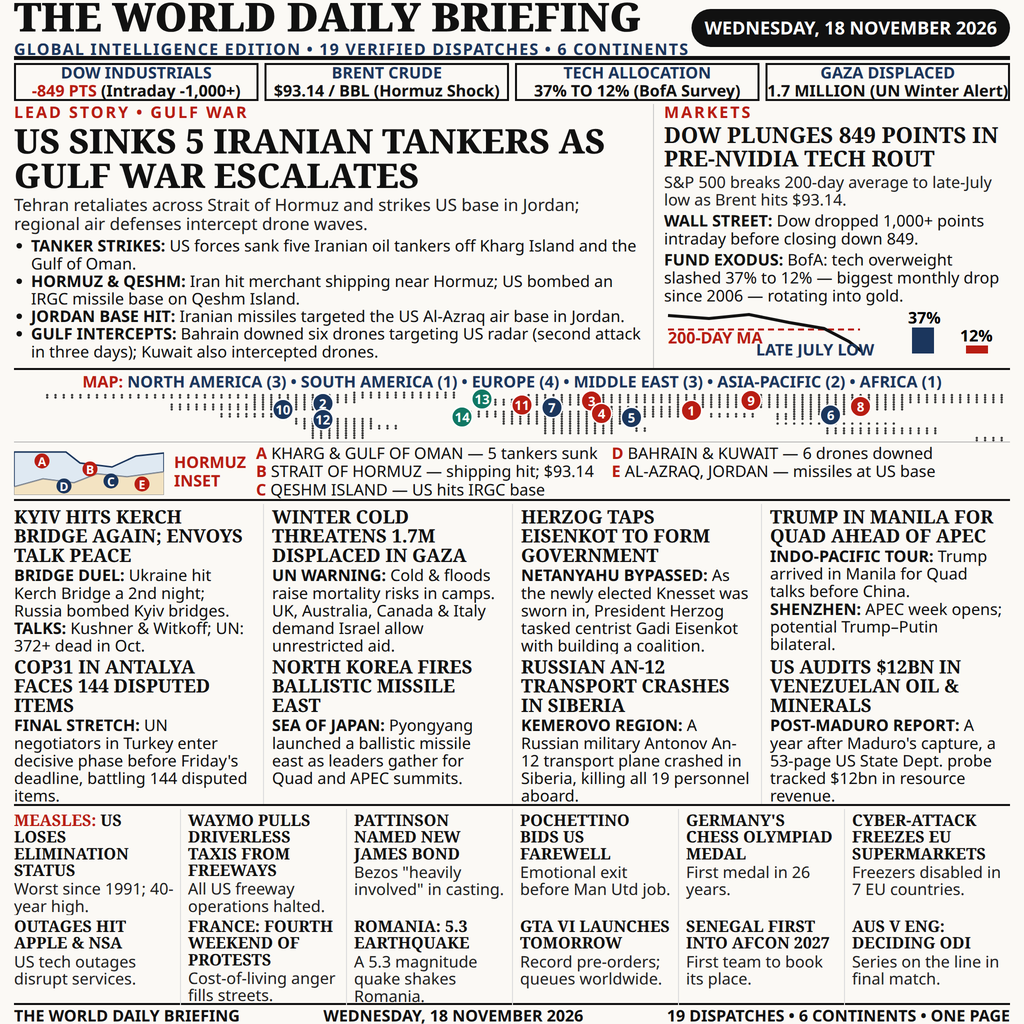
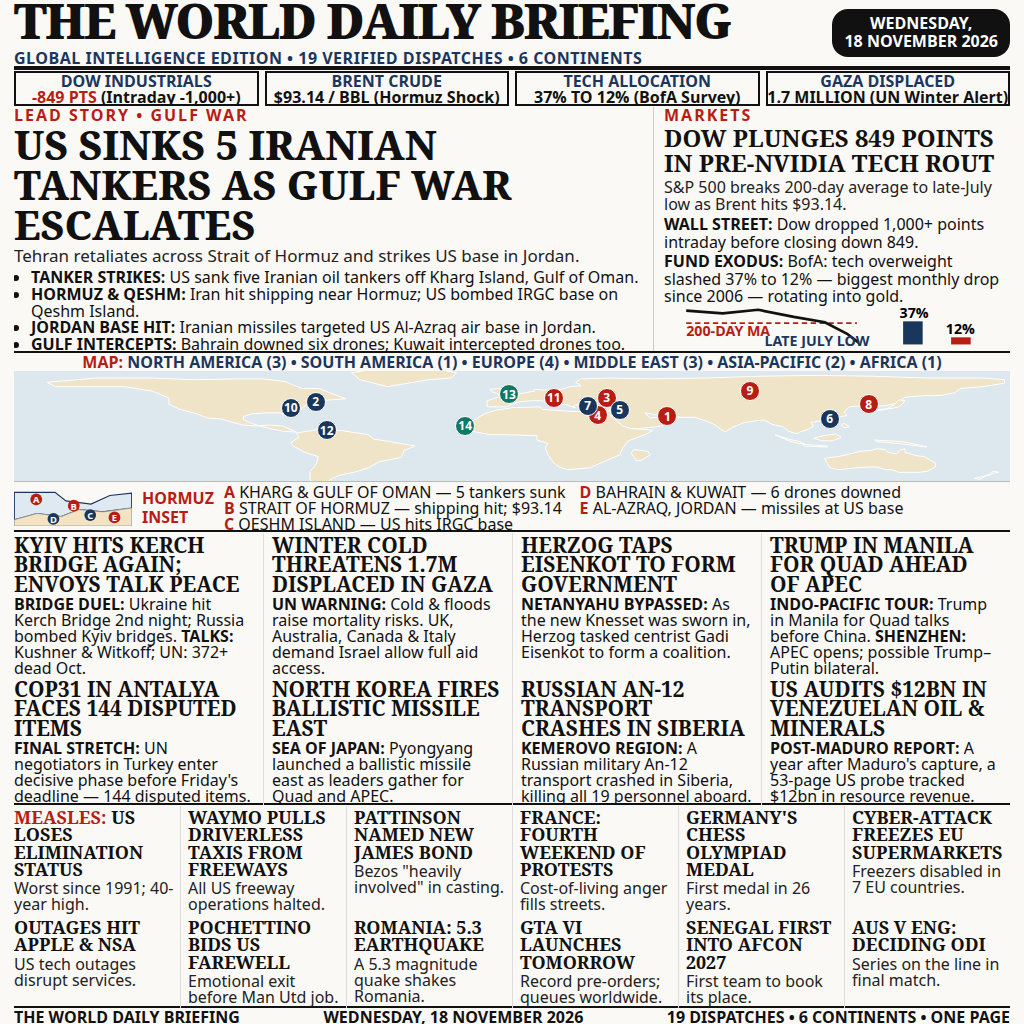
Revision: filled-silhouette world map, larger headlines

diff --git a/page.html b/page.html
@@ -10,66 +10,66 @@
     background:#FBF9F5; color:#111111;
     font-family:"Noto Sans", "Liberation Sans", sans-serif;
     padding:0 14px;
-    display:flex; flex-direction:column; gap:3px;
+    display:flex; flex-direction:column; gap:1px;
   }
   b, strong { font-weight:700; }
-  .kicker { color:#B81D13; font-weight:700; font-size:16px; letter-spacing:2px; line-height:1.05; }
+  .kicker { color:#B81D13; font-weight:700; font-size:16px; letter-spacing:2px; line-height:1.0; }
 
   /* ---------- Masthead ---------- */
-  header { height:60px; border-bottom:4px solid #111; display:flex; align-items:center; justify-content:space-between; }
-  header h1 { font-family:"Noto Serif","Liberation Serif",serif; font-weight:900; font-size:40px; margin:0; line-height:1; white-space:nowrap; }
-  .tagline { font-size:16px; font-weight:700; letter-spacing:1.2px; color:#1B365D; margin-top:2px; white-space:nowrap; }
-  .datepill { background:#111; color:#fff; font-weight:700; font-size:18px; padding:9px 13px; border-radius:22px; white-space:nowrap; line-height:1.1; }
+  header { height:70px; border-bottom:4px solid #111; display:flex; align-items:center; justify-content:space-between; }
+  header h1 { font-family:"Noto Serif","Liberation Serif",serif; font-weight:900; font-size:48px; letter-spacing:-1.5px; margin:0; line-height:1; white-space:nowrap; }
+  .tagline { font-size:16px; font-weight:700; letter-spacing:0.5px; color:#1B365D; margin-top:2px; white-space:nowrap; }
+  .datepill { background:#111; color:#fff; font-weight:700; font-size:16px; padding:6px 12px; border-radius:16px; white-space:nowrap; line-height:1.1; text-align:center; }
 
   /* ---------- Global Pulse ---------- */
-  .pulse { height:38px; display:flex; gap:6px; }
-  .pulse div { flex:1; border:2px solid #111; display:flex; flex-direction:column; align-items:center; justify-content:center; font-size:16px; font-weight:700; white-space:nowrap; overflow:hidden; line-height:1.12; }
+  .pulse { height:35px; display:flex; gap:6px; }
+  .pulse div { flex:1; border:2px solid #111; display:flex; flex-direction:column; align-items:center; justify-content:center; font-size:16px; font-weight:700; white-space:nowrap; overflow:hidden; line-height:1.0; }
   .pulse .lbl { color:#1B365D; }
   .pulse .neg { color:#B81D13; }
 
   /* ---------- Hero ---------- */
-  .hero { height:266px; display:flex; gap:10px; border-bottom:2px solid #111; overflow:hidden; }
+  .hero { height:246px; display:flex; gap:10px; border-bottom:2px solid #111; overflow:hidden; }
   .lead { width:640px; border-right:1px solid #ccc; padding-right:10px; overflow:hidden; }
-  .lead h2 { font-family:"Noto Serif","Liberation Serif",serif; font-weight:800; font-size:34px; line-height:1.02; margin:2px 0 3px 0; }
-  .lead .sub { font-size:17px; line-height:1.12; color:#222; margin:0 0 4px 0; }
+  .lead h2 { font-family:"Noto Serif","Liberation Serif",serif; font-weight:800; font-size:40px; line-height:1.0; margin:2px 0 2px 0; }
+  .lead .sub { font-size:17px; line-height:1.08; color:#222; margin:0 0 4px 0; }
   .lead ul { margin:0; padding-left:17px; }
-  .lead li { font-size:16px; line-height:1.1; margin:0; }
+  .lead li { font-size:16px; line-height:1.04; margin:0; }
 
   .markets { flex:1; overflow:hidden; }
-  .markets h3 { font-family:"Noto Serif","Liberation Serif",serif; font-weight:700; font-size:22px; line-height:1.08; margin:2px 0 3px 0; }
-  .markets .sub { font-size:16px; line-height:1.12; margin:0 0 3px 0; color:#222; }
-  .markets p { font-size:16px; line-height:1.12; margin:0 0 3px 0; }
+  .markets h3 { font-family:"Noto Serif","Liberation Serif",serif; font-weight:700; font-size:24px; line-height:1.06; margin:2px 0 3px 0; }
+  .markets .sub { font-size:16px; line-height:1.1; margin:0 0 2px 0; color:#222; }
+  .markets p { font-size:16px; line-height:1.1; margin:0 0 2px 0; }
 
   /* ---------- Map band ---------- */
-  .mapband { height:128px; border-bottom:2px solid #111; overflow:hidden; }
-  .maphead { text-align:center; font-size:16px; font-weight:700; white-space:nowrap; color:#1B365D; line-height:1.15; }
+  .mapband { height:178px; border-bottom:2px solid #111; overflow:hidden; }
+  .maphead { text-align:center; font-size:16px; font-weight:700; white-space:nowrap; color:#1B365D; line-height:1.05; }
   .maphead .ttl { color:#B81D13; }
-  .mapwrap { position:relative; height:50px; }
-  .pin { position:absolute; width:22px; height:22px; border-radius:50%; color:#fff; font-size:13px; font-weight:700;
+  .mapwrap { position:relative; height:110px; background:#DCE7EE; }
+  .pin { position:absolute; width:20px; height:20px; border-radius:50%; color:#fff; font-size:12px; font-weight:700;
          display:flex; align-items:center; justify-content:center; transform:translate(-50%,-50%); border:1.5px solid #fff; z-index:2; }
   .pin.red { background:#B81D13; } .pin.navy { background:#1B365D; } .pin.teal { background:#117864; }
   .inset { display:flex; gap:10px; border-top:1px solid #bbb; padding-top:2px; align-items:center; }
   .inset .ititle { font-size:16px; font-weight:700; color:#B81D13; white-space:nowrap; line-height:1.15; }
   .inset .legend { display:flex; gap:14px; flex:1; }
-  .inset .legend div { font-size:16px; line-height:1.14; white-space:nowrap; }
+  .inset .legend div { font-size:16px; line-height:1.0; white-space:nowrap; }
   .inset .legend b { color:#B81D13; }
 
   /* ---------- Module grid ---------- */
-  .modules { height:302px; display:grid; grid-template-columns:repeat(4,1fr); grid-template-rows:1fr 1fr; border-bottom:2px solid #111; }
+  .modules { height:272px; display:grid; grid-template-columns:repeat(4,1fr); grid-template-rows:144px 128px; border-bottom:2px solid #111; }
   .mod { padding:3px 8px 2px 8px; overflow:hidden; border-left:1px solid #ddd; }
   .mod:nth-child(4n+1) { border-left:none; padding-left:0; }
-  .mod h4 { font-family:"Noto Serif","Liberation Serif",serif; font-weight:700; font-size:18.5px; line-height:1.04; margin:0 0 2px 0; }
-  .mod p { font-size:16px; line-height:1.1; margin:0; }
+  .mod h4 { font-family:"Noto Serif","Liberation Serif",serif; font-weight:700; font-size:21px; line-height:0.92; margin:0 0 2px 0; }
+  .mod p { font-size:16px; line-height:1.0; margin:0; }
 
   /* ---------- Micro cards ---------- */
-  .micros { height:196px; display:grid; grid-template-columns:repeat(6,1fr); grid-template-rows:106px 90px; border-bottom:2px solid #111; }
+  .micros { height:202px; display:grid; grid-template-columns:repeat(6,1fr); grid-template-rows:110px 92px; border-bottom:2px solid #111; }
   .micro { padding:3px 6px 2px 7px; overflow:hidden; border-left:1px solid #ddd; }
   .micro:nth-child(6n+1) { border-left:none; padding-left:0; }
-  .micro h5 { font-family:"Noto Serif","Liberation Serif",serif; font-weight:700; font-size:16px; line-height:1.04; margin:0 0 2px 0; }
-  .micro p { font-size:16px; line-height:1.08; margin:0; color:#222; }
+  .micro h5 { font-family:"Noto Serif","Liberation Serif",serif; font-weight:700; font-size:18px; line-height:0.96; margin:0 0 2px 0; }
+  .micro p { font-size:16px; line-height:1.02; margin:0; color:#222; }
   .micro .cat { color:#B81D13; }
 
-  footer { height:16px; display:flex; justify-content:space-between; align-items:center; font-size:16px; font-weight:700; white-space:nowrap; line-height:1; }
+  footer { height:15px; display:flex; justify-content:space-between; align-items:center; font-size:16px; font-weight:700; white-space:nowrap; line-height:1; }
 </style>
 </head>
 <body>
@@ -79,7 +79,7 @@
     <h1>THE WORLD DAILY BRIEFING</h1>
     <div class="tagline">GLOBAL INTELLIGENCE EDITION &bull; 19 VERIFIED DISPATCHES &bull; 6 CONTINENTS</div>
   </div>
-  <div class="datepill">WEDNESDAY, 18 NOVEMBER 2026</div>
+  <div class="datepill">WEDNESDAY,<br>18 NOVEMBER 2026</div>
 </header>
 
 <section class="pulse">
@@ -93,12 +93,12 @@
   <article class="lead">
     <div class="kicker">LEAD STORY &bull; GULF WAR</div>
     <h2>US SINKS 5 IRANIAN TANKERS AS GULF WAR ESCALATES</h2>
-    <p class="sub">Tehran retaliates across Strait of Hormuz and strikes US base in Jordan; regional air defenses intercept drone waves.</p>
+    <p class="sub">Tehran retaliates across Strait of Hormuz and strikes US base in Jordan.</p>
     <ul>
-      <li><b>TANKER STRIKES:</b> US forces sank five Iranian oil tankers off Kharg Island and the Gulf of Oman.</li>
-      <li><b>HORMUZ &amp; QESHM:</b> Iran hit merchant shipping near Hormuz; US bombed an IRGC missile base on Qeshm Island.</li>
-      <li><b>JORDAN BASE HIT:</b> Iranian missiles targeted the US Al-Azraq air base in Jordan.</li>
-      <li><b>GULF INTERCEPTS:</b> Bahrain downed six drones targeting US radar (second attack in three days); Kuwait also intercepted drones.</li>
+      <li><b>TANKER STRIKES:</b> US sank five Iranian oil tankers off Kharg Island, Gulf of Oman.</li>
+      <li><b>HORMUZ &amp; QESHM:</b> Iran hit shipping near Hormuz; US bombed IRGC base on Qeshm Island.</li>
+      <li><b>JORDAN BASE HIT:</b> Iranian missiles targeted US Al-Azraq air base in Jordan.</li>
+      <li><b>GULF INTERCEPTS:</b> Bahrain downed six drones; Kuwait intercepted drones too.</li>
     </ul>
   </article>
 
@@ -108,7 +108,7 @@
     <p class="sub">S&amp;P 500 breaks 200-day average to late-July low as Brent hits $93.14.</p>
     <p><b>WALL STREET:</b> Dow dropped 1,000+ points intraday before closing down 849.</p>
     <p><b>FUND EXODUS:</b> BofA: tech overweight slashed 37% to 12% — biggest monthly drop since 2006 — rotating into gold.</p>
-    <svg width="336" height="50" viewBox="0 0 336 50">
+    <svg width="336" height="40" viewBox="0 5 336 45">
       <line x1="4" y1="22" x2="196" y2="22" stroke="#B81D13" stroke-width="2" stroke-dasharray="6 4"/>
       <text x="4" y="36" font-size="16" font-weight="bold" fill="#B81D13">200-DAY MA</text>
       <polyline points="4,8 45,11 85,7 125,15 160,21 185,34 198,44" fill="none" stroke="#111" stroke-width="3"/>
@@ -123,11 +123,44 @@
 
 <section class="mapband">
   <div class="maphead"><span class="ttl">MAP:</span> NORTH AMERICA (3) &bull; SOUTH AMERICA (1) &bull; EUROPE (4) &bull; MIDDLE EAST (3) &bull; ASIA-PACIFIC (2) &bull; AFRICA (1)</div>
-  <div class="mapwrap" id="mapwrap">
-    <svg id="dotmap" width="996" height="50" viewBox="0 0 996 50"></svg>
+  <div class="mapwrap">
+    <svg width="996" height="110" viewBox="0 0 996 110">
+      <rect x="0" y="0" width="996" height="110" fill="#DCE7EE"/>
+      <g fill="#EFE3C8" stroke="#FFFFFF" stroke-width="1">
+        <path d="M33.2,11.3 L83.0,7.0 L138.3,7.0 L179.8,8.7 L221.3,7.9 L249.0,7.9 L271.1,10.5 L279.4,14.0 L287.7,17.5 L304.3,17.5 L318.2,22.7 L332.0,27.9 L304.3,29.7 L293.3,33.2 L287.7,37.5 L276.7,40.2 L273.9,45.4 L265.6,41.9 L251.8,41.9 L237.9,42.8 L229.6,45.4 L229.6,48.9 L237.9,52.4 L249.0,55.9 L268.4,60.2 L282.2,61.1 L268.4,55.0 L254.5,54.1 L243.5,55.0 L229.6,54.1 L215.8,50.6 L207.5,48.0 L193.7,47.1 L182.6,42.8 L166.0,38.4 L154.9,33.2 L154.9,27.1 L138.3,20.1 L110.7,15.7 L69.2,15.7 L41.5,15.7 Z"/>
+        <path d="M373.5,15.7 L415.0,8.7 L437.1,7.0 L442.7,1.7 L415.0,-3.5 L359.7,-1.7 L337.5,1.7 L345.8,8.7 Z"/>
+        <path d="M282.2,62.0 L304.3,58.5 L326.5,59.4 L354.1,63.7 L359.7,68.1 L376.3,70.7 L401.2,75.1 L390.1,79.4 L387.3,86.4 L365.2,90.8 L354.1,96.9 L340.3,101.3 L326.5,103.9 L318.2,107.4 L312.6,111.7 L309.9,115.2 L301.6,115.2 L296.0,108.3 L296.0,100.4 L301.6,94.3 L304.3,85.6 L290.5,81.2 L279.4,75.1 L276.7,71.6 L285.0,66.3 Z"/>
+        <path d="M451.0,55.0 L470.3,42.8 L481.4,39.3 L498.0,36.7 L525.7,35.8 L528.4,38.4 L553.3,40.2 L581.0,41.0 L586.5,41.0 L594.8,43.7 L603.1,48.9 L608.7,55.0 L617.0,57.6 L630.8,58.5 L639.1,59.4 L630.8,63.7 L614.2,69.8 L608.7,76.8 L605.9,83.8 L597.6,87.3 L589.3,90.8 L575.5,96.9 L553.3,98.7 L545.0,96.0 L539.5,91.7 L534.0,83.8 L531.2,76.8 L534.0,72.5 L522.9,69.0 L522.9,64.6 L489.7,63.7 L475.9,63.7 L462.0,61.1 L451.0,57.6 Z"/>
+        <path d="M619.7,78.6 L633.6,80.3 L636.3,83.8 L628.0,89.0 L622.5,89.9 L619.7,85.6 L617.0,82.1 Z"/>
+        <path d="M473.1,35.8 L473.1,29.7 L484.2,26.2 L498.0,25.3 L506.3,22.7 L520.1,20.1 L520.1,18.3 L531.2,19.2 L547.8,18.3 L556.1,15.7 L567.2,14.8 L561.6,11.3 L567.2,7.9 L594.8,7.0 L636.3,7.9 L691.7,7.0 L747.0,5.2 L802.3,4.4 L857.7,5.2 L913.0,7.0 L968.3,7.0 L990.5,8.7 L990.5,12.2 L968.3,15.7 L946.2,17.5 L940.7,21.8 L926.8,24.4 L913.0,24.4 L890.9,26.2 L885.3,31.4 L871.5,34.9 L854.9,34.9 L846.6,34.9 L835.5,35.8 L830.0,41.0 L832.8,44.5 L816.2,48.0 L796.8,51.5 L799.6,55.0 L794.0,58.5 L785.7,61.1 L783.0,62.9 L774.7,60.2 L769.1,55.9 L758.1,53.3 L749.8,48.9 L741.5,49.8 L730.4,51.5 L719.3,55.9 L711.0,61.1 L700.0,53.3 L691.7,49.8 L680.6,46.3 L666.8,46.3 L655.7,45.4 L644.6,44.5 L636.3,42.8 L630.8,41.9 L636.3,47.1 L641.9,46.3 L652.9,47.1 L661.2,48.0 L655.7,53.3 L641.9,55.9 L622.5,57.6 L617.0,57.6 L608.7,55.0 L603.1,49.8 L594.8,43.7 L592.1,41.0 L597.6,38.4 L597.6,36.7 L589.3,36.7 L581.0,36.7 L572.7,35.8 L572.7,33.2 L561.6,34.0 L558.9,35.8 L561.6,36.7 L550.6,33.2 L542.3,34.9 L542.3,33.2 L534.0,30.6 L525.7,29.7 L517.4,29.7 L506.3,30.6 L498.0,33.2 L492.5,35.8 Z"/>
+        <path d="M484.2,24.4 L489.7,22.7 L500.8,22.7 L498.0,21.0 L492.5,18.3 L484.2,17.5 L475.9,18.3 L478.6,21.0 L484.2,22.7 Z"/>
+        <path d="M857.7,41.0 L866.0,38.4 L877.0,37.5 L885.3,35.8 L888.1,33.2 L890.9,29.7 L885.3,28.8 L879.8,34.0 L871.5,38.4 L860.4,40.2 Z"/>
+        <path d="M760.8,63.7 L774.7,68.1 L785.7,70.7 L791.3,73.3 L780.2,71.6 L766.4,66.3 Z"/>
+        <path d="M799.6,67.2 L810.6,64.6 L821.7,62.9 L827.2,66.3 L818.9,69.8 L807.9,69.8 L802.3,68.1 Z"/>
+        <path d="M788.5,73.3 L802.3,74.2 L813.4,75.1 L813.4,76.0 L791.3,75.1 Z"/>
+        <path d="M860.4,69.0 L874.3,69.8 L888.1,70.7 L901.9,73.3 L913.0,76.0 L904.7,75.1 L890.9,73.3 L874.3,71.6 L863.2,70.7 Z"/>
+        <path d="M830.0,52.4 L832.8,54.1 L835.5,55.9 L830.0,56.7 L827.2,54.1 Z"/>
+        <path d="M810.6,87.3 L813.4,92.5 L816.2,96.9 L824.5,98.7 L841.1,96.9 L854.9,96.0 L863.2,96.0 L871.5,98.7 L877.0,98.7 L882.6,100.4 L885.3,101.3 L899.2,101.3 L904.7,101.3 L913.0,100.4 L921.3,96.0 L921.3,91.7 L915.8,89.0 L910.2,85.6 L901.9,84.7 L890.9,81.2 L890.9,77.7 L885.3,79.4 L882.6,82.9 L874.3,81.2 L871.5,78.6 L863.2,77.7 L857.7,79.4 L846.6,80.3 L835.5,82.9 L824.5,85.6 Z"/>
+        <path d="M960.0,107.4 L968.3,105.6 L976.6,103.9 L979.4,102.1 L984.9,101.3 L979.4,100.4 L973.9,103.9 L965.6,108.3 Z"/>
+      </g>
+    </svg>
+    <div class="pin red" style="left:65.6%;top:41.3%">1</div>
+    <div class="pin navy" style="left:30.3%;top:28.0%">2</div>
+    <div class="pin red" style="left:59.5%;top:24.6%">3</div>
+    <div class="pin red" style="left:58.6%;top:40.5%">4</div>
+    <div class="pin navy" style="left:60.8%;top:35.5%">5</div>
+    <div class="pin navy" style="left:81.9%;top:43.8%">6</div>
+    <div class="pin navy" style="left:57.6%;top:32.0%">7</div>
+    <div class="pin red" style="left:85.8%;top:30.2%">8</div>
+    <div class="pin red" style="left:73.9%;top:18.3%">9</div>
+    <div class="pin navy" style="left:27.8%;top:33.5%">10</div>
+    <div class="pin red" style="left:54.2%;top:24.6%">11</div>
+    <div class="pin navy" style="left:31.4%;top:54.0%">12</div>
+    <div class="pin teal" style="left:49.7%;top:21.4%">13</div>
+    <div class="pin teal" style="left:45.3%;top:50.0%">14</div>
   </div>
   <div class="inset">
-    <svg width="150" height="46" viewBox="0 0 150 46" aria-label="Strait of Hormuz schematic">
+    <svg width="118" height="36" viewBox="0 0 150 46" aria-label="Strait of Hormuz schematic">
       <path d="M0,3 L52,3 L66,14 L98,18 L122,7 L150,4 L150,23 L113,28 L83,25 L60,34 L29,30 L0,38 Z" fill="#dfe9f2" stroke="#1B365D" stroke-width="1.5"/>
       <path d="M0,38 L29,30 L60,34 L83,25 L113,28 L150,23 L150,46 L0,46 Z" fill="#f3e3c2" stroke="#999" stroke-width="1"/>
       <circle cx="28" cy="12" r="7.5" fill="#B81D13"/><text x="28" y="17" font-size="12" fill="#fff" text-anchor="middle" font-weight="bold">A</text>
@@ -145,25 +178,25 @@
 </section>
 
 <section class="modules">
-  <article class="mod"><h4>KYIV HITS KERCH BRIDGE AGAIN; ENVOYS TALK PEACE</h4><p><b>BRIDGE DUEL:</b> Ukraine hit Kerch Bridge a 2nd night; Russia bombed Kyiv bridges. <b>TALKS:</b> Kushner &amp; Witkoff; UN: 372+ dead in Oct.</p></article>
-  <article class="mod"><h4>WINTER COLD THREATENS 1.7M DISPLACED IN GAZA</h4><p><b>UN WARNING:</b> Cold &amp; floods raise mortality risks in camps. UK, Australia, Canada &amp; Italy demand Israel allow unrestricted aid.</p></article>
-  <article class="mod"><h4>HERZOG TAPS EISENKOT TO FORM GOVERNMENT</h4><p><b>NETANYAHU BYPASSED:</b> As the newly elected Knesset was sworn in, President Herzog tasked centrist Gadi Eisenkot with building a coalition.</p></article>
-  <article class="mod"><h4>TRUMP IN MANILA FOR QUAD AHEAD OF APEC</h4><p><b>INDO-PACIFIC TOUR:</b> Trump arrived in Manila for Quad talks before China. <b>SHENZHEN:</b> APEC week opens; potential Trump–Putin bilateral.</p></article>
-  <article class="mod"><h4>COP31 IN ANTALYA FACES 144 DISPUTED ITEMS</h4><p><b>FINAL STRETCH:</b> UN negotiators in Turkey enter decisive phase before Friday's deadline, battling 144 disputed items.</p></article>
-  <article class="mod"><h4>NORTH KOREA FIRES BALLISTIC MISSILE EAST</h4><p><b>SEA OF JAPAN:</b> Pyongyang launched a ballistic missile east as leaders gather for Quad and APEC summits.</p></article>
-  <article class="mod"><h4>RUSSIAN AN-12 TRANSPORT CRASHES IN SIBERIA</h4><p><b>KEMEROVO REGION:</b> A Russian military Antonov An-12 transport plane crashed in Siberia, killing all 19 personnel aboard.</p></article>
-  <article class="mod"><h4>US AUDITS $12BN IN VENEZUELAN OIL &amp; MINERALS</h4><p><b>POST-MADURO REPORT:</b> A year after Maduro's capture, a 53-page US State Dept. probe tracked $12bn in resource revenue.</p></article>
+  <article class="mod"><h4>KYIV HITS KERCH BRIDGE AGAIN; ENVOYS TALK PEACE</h4><p><b>BRIDGE DUEL:</b> Ukraine hit Kerch Bridge 2nd night; Russia bombed Kyiv bridges. <b>TALKS:</b> Kushner &amp; Witkoff; UN: 372+ dead Oct.</p></article>
+  <article class="mod"><h4>WINTER COLD THREATENS 1.7M DISPLACED IN GAZA</h4><p><b>UN WARNING:</b> Cold &amp; floods raise mortality risks. UK, Australia, Canada &amp; Italy demand Israel allow full aid access.</p></article>
+  <article class="mod"><h4>HERZOG TAPS EISENKOT TO FORM GOVERNMENT</h4><p><b>NETANYAHU BYPASSED:</b> As the new Knesset was sworn in, Herzog tasked centrist Gadi Eisenkot to form a coalition.</p></article>
+  <article class="mod"><h4>TRUMP IN MANILA FOR QUAD AHEAD OF APEC</h4><p><b>INDO-PACIFIC TOUR:</b> Trump in Manila for Quad talks before China. <b>SHENZHEN:</b> APEC opens; possible Trump–Putin bilateral.</p></article>
+  <article class="mod"><h4>COP31 IN ANTALYA FACES 144 DISPUTED ITEMS</h4><p><b>FINAL STRETCH:</b> UN negotiators in Turkey enter decisive phase before Friday's deadline — 144 disputed items.</p></article>
+  <article class="mod"><h4>NORTH KOREA FIRES BALLISTIC MISSILE EAST</h4><p><b>SEA OF JAPAN:</b> Pyongyang launched a ballistic missile east as leaders gather for Quad and APEC.</p></article>
+  <article class="mod"><h4>RUSSIAN AN-12 TRANSPORT CRASHES IN SIBERIA</h4><p><b>KEMEROVO REGION:</b> A Russian military An-12 transport crashed in Siberia, killing all 19 personnel aboard.</p></article>
+  <article class="mod"><h4>US AUDITS $12BN IN VENEZUELAN OIL &amp; MINERALS</h4><p><b>POST-MADURO REPORT:</b> A year after Maduro's capture, a 53-page US probe tracked $12bn in resource revenue.</p></article>
 </section>
 
 <section class="micros">
   <article class="micro"><h5><span class="cat">MEASLES:</span> US LOSES ELIMINATION STATUS</h5><p>Worst since 1991; 40-year high.</p></article>
   <article class="micro"><h5>WAYMO PULLS DRIVERLESS TAXIS FROM FREEWAYS</h5><p>All US freeway operations halted.</p></article>
   <article class="micro"><h5>PATTINSON NAMED NEW JAMES BOND</h5><p>Bezos "heavily involved" in casting.</p></article>
-  <article class="micro"><h5>POCHETTINO BIDS US FAREWELL</h5><p>Emotional exit before Man Utd job.</p></article>
+  <article class="micro"><h5>FRANCE: FOURTH WEEKEND OF PROTESTS</h5><p>Cost-of-living anger fills streets.</p></article>
   <article class="micro"><h5>GERMANY'S CHESS OLYMPIAD MEDAL</h5><p>First medal in 26 years.</p></article>
   <article class="micro"><h5>CYBER-ATTACK FREEZES EU SUPERMARKETS</h5><p>Freezers disabled in 7 EU countries.</p></article>
   <article class="micro"><h5>OUTAGES HIT APPLE &amp; NSA</h5><p>US tech outages disrupt services.</p></article>
-  <article class="micro"><h5>FRANCE: FOURTH WEEKEND OF PROTESTS</h5><p>Cost-of-living anger fills streets.</p></article>
+  <article class="micro"><h5>POCHETTINO BIDS US FAREWELL</h5><p>Emotional exit before Man Utd job.</p></article>
   <article class="micro"><h5>ROMANIA: 5.3 EARTHQUAKE</h5><p>A 5.3 magnitude quake shakes Romania.</p></article>
   <article class="micro"><h5>GTA VI LAUNCHES TOMORROW</h5><p>Record pre-orders; queues worldwide.</p></article>
   <article class="micro"><h5>SENEGAL FIRST INTO AFCON 2027</h5><p>First team to book its place.</p></article>
@@ -176,52 +209,5 @@
   <span>19 DISPATCHES &bull; 6 CONTINENTS &bull; ONE PAGE</span>
 </footer>
 
-<script>
-  // Dotted-grid world map: dots on a lon/lat grid wherever the point falls
-  // inside one of the land boxes [lonMin, lonMax, latMin, latMax].
-  var land = [
-    [-168,-60,58,70],[-95,-55,48,58],[-125,-67,30,49],[-105,-83,14,25],[-58,-20,60,76],
-    [-80,-50,-5,10],[-75,-40,-20,-5],[-73,-53,-40,-20],
-    [-10,30,43,60],[5,30,58,70],
-    [-17,35,15,32],[-5,40,-5,15],[12,36,-30,-5],[43,50,-25,-12],
-    [35,60,12,42],
-    [30,180,50,70],[60,140,35,50],[72,88,10,26],[100,122,20,42],[95,108,5,22],
-    [95,140,-8,2],[129,142,31,45],[113,153,-28,-12],[166,178,-46,-34]
-  ];
-  var svg = document.getElementById('dotmap');
-  var NS = 'http://www.w3.org/2000/svg';
-  for (var lon = -177; lon <= 177; lon += 3) {
-    for (var lat = 75; lat >= -45; lat -= 6) {
-      var inside = false;
-      for (var i = 0; i < land.length; i++) {
-        var b = land[i];
-        if (lon >= b[0] && lon <= b[1] && lat >= b[2] && lat <= b[3]) { inside = true; break; }
-      }
-      if (inside) {
-        var dot = document.createElementNS(NS, 'circle');
-        dot.setAttribute('cx', ((lon + 180) / 360 * 996).toFixed(1));
-        dot.setAttribute('cy', ((78 - lat) / 126 * 50).toFixed(1));
-        dot.setAttribute('r', 1.2);
-        dot.setAttribute('fill', '#3a3a3a');
-        svg.appendChild(dot);
-      }
-    }
-  }
-  var pins = [
-    [1,68,38,'red'],[2,31,24,'navy'],[3,58,19,'red'],[4,59,44,'red'],
-    [5,62,52,'navy'],[6,82,47,'navy'],[7,54,32,'navy'],[8,85,30,'red'],
-    [9,74,18,'red'],[10,27,36,'navy'],[11,51,27,'red'],[12,31,56,'navy'],
-    [13,47,15,'teal'],[14,45,51,'teal']
-  ];
-  var wrap = document.getElementById('mapwrap');
-  pins.forEach(function(p){
-    var d = document.createElement('div');
-    d.className = 'pin ' + p[3];
-    d.style.left = p[1] + '%';
-    d.style.top = p[2] + '%';
-    d.textContent = p[0];
-    wrap.appendChild(d);
-  });
-</script>
 </body>
 </html>
